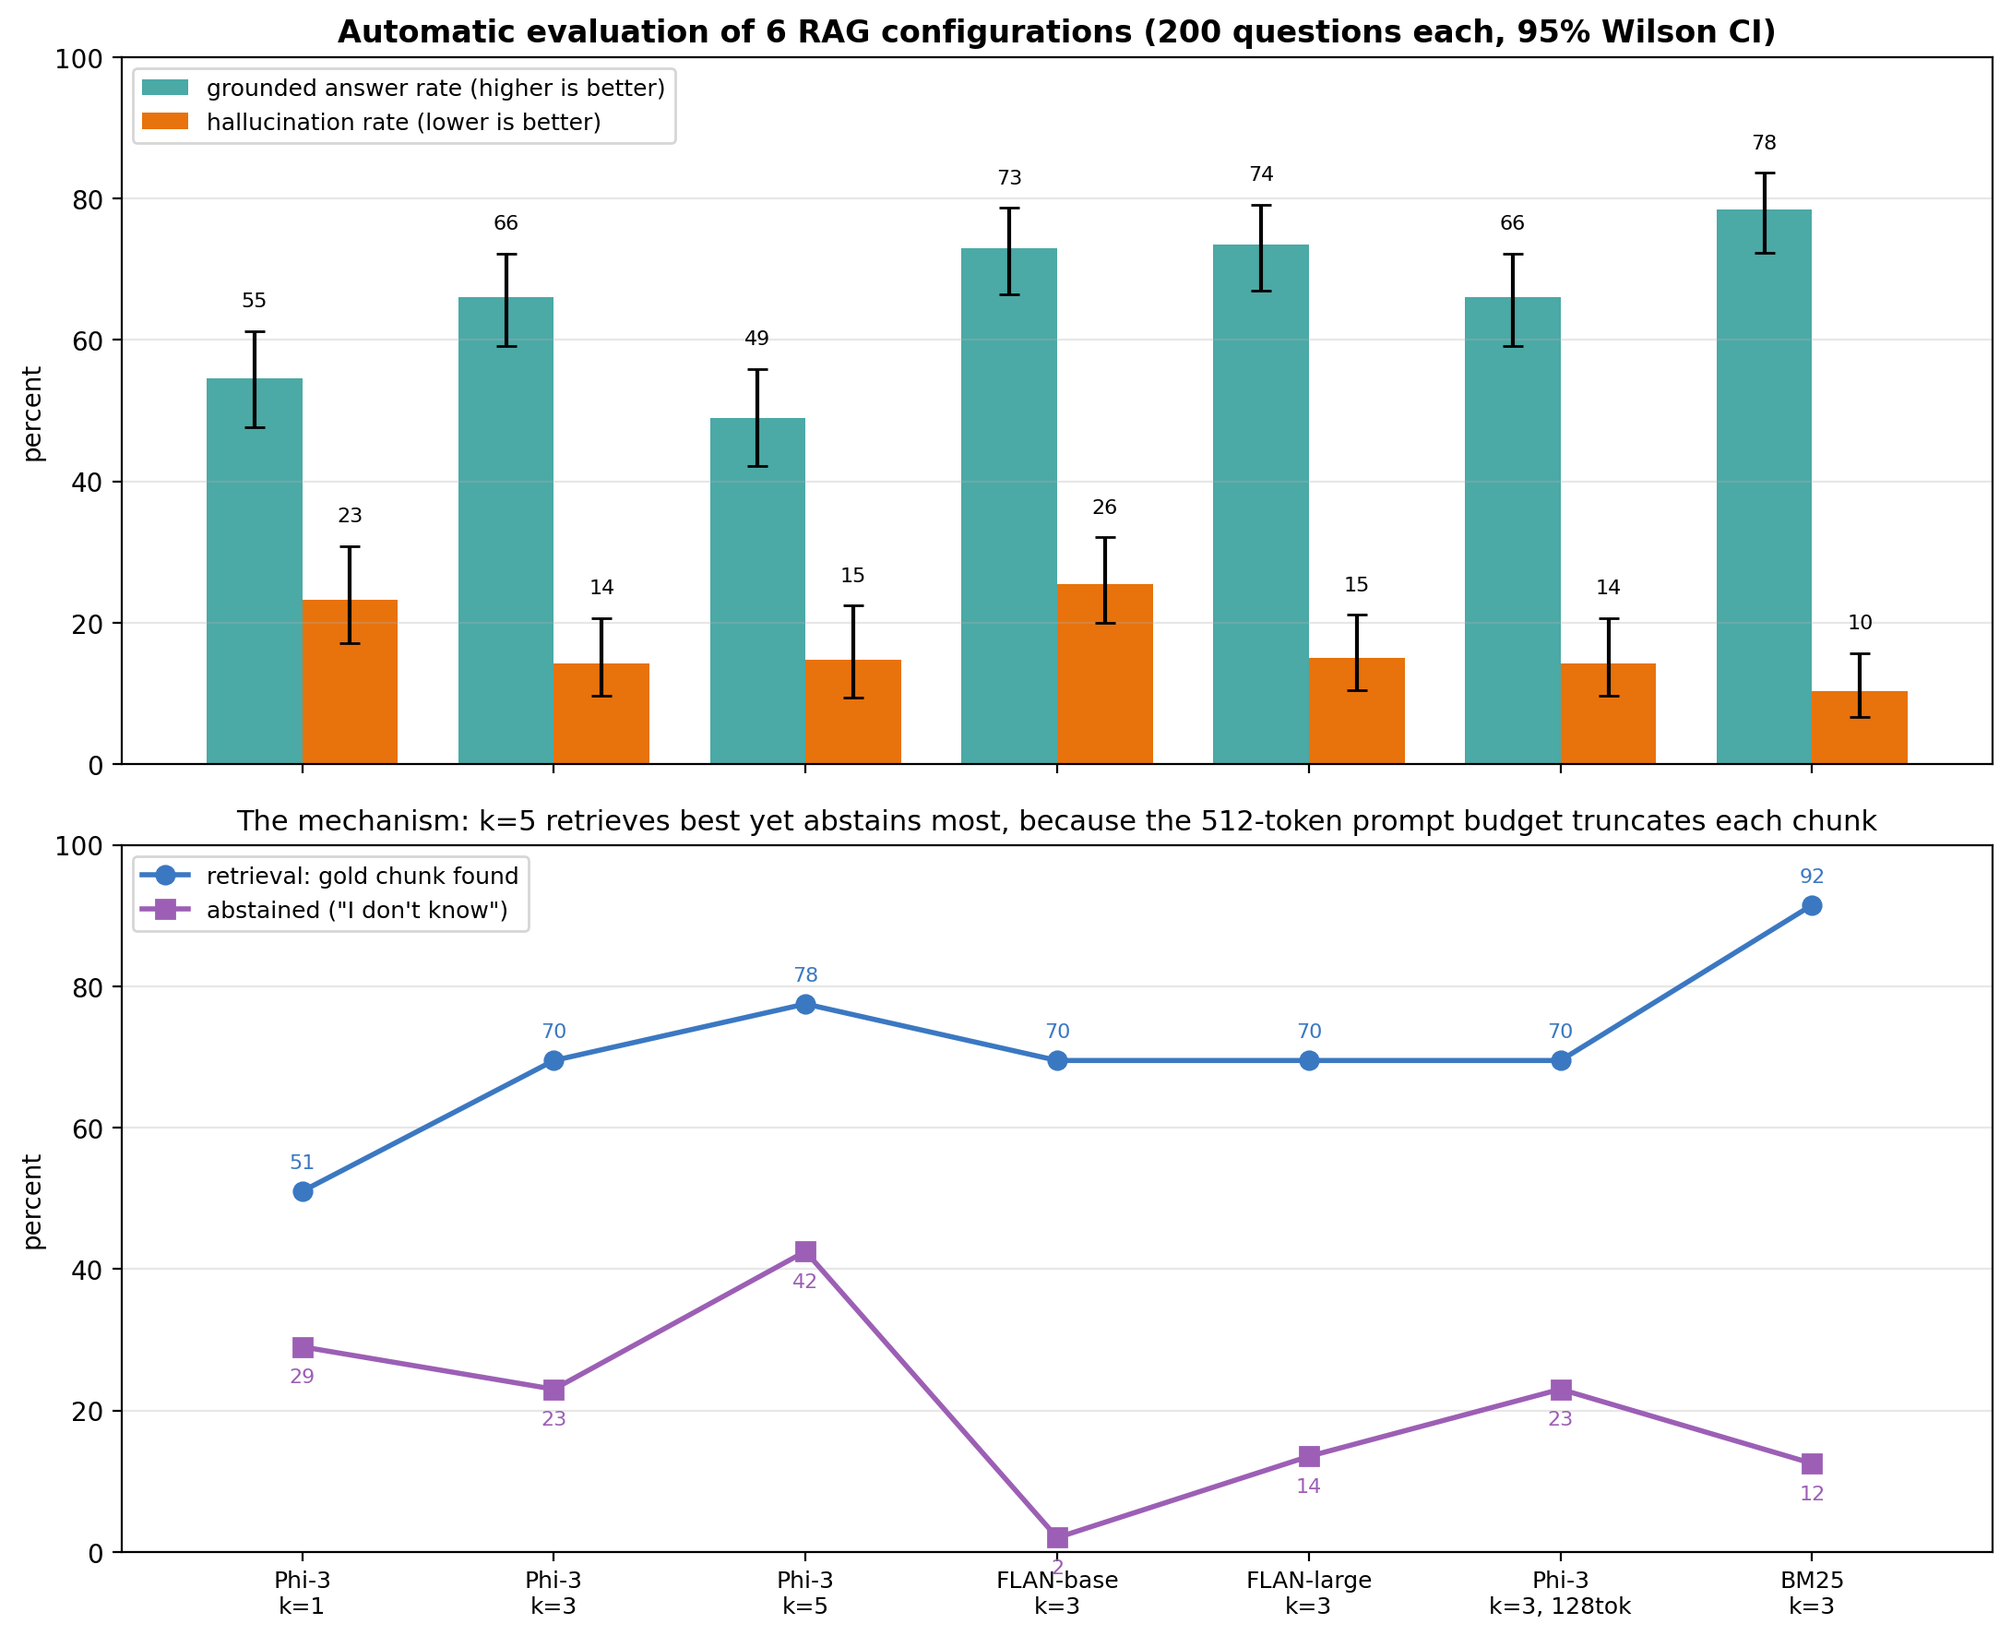
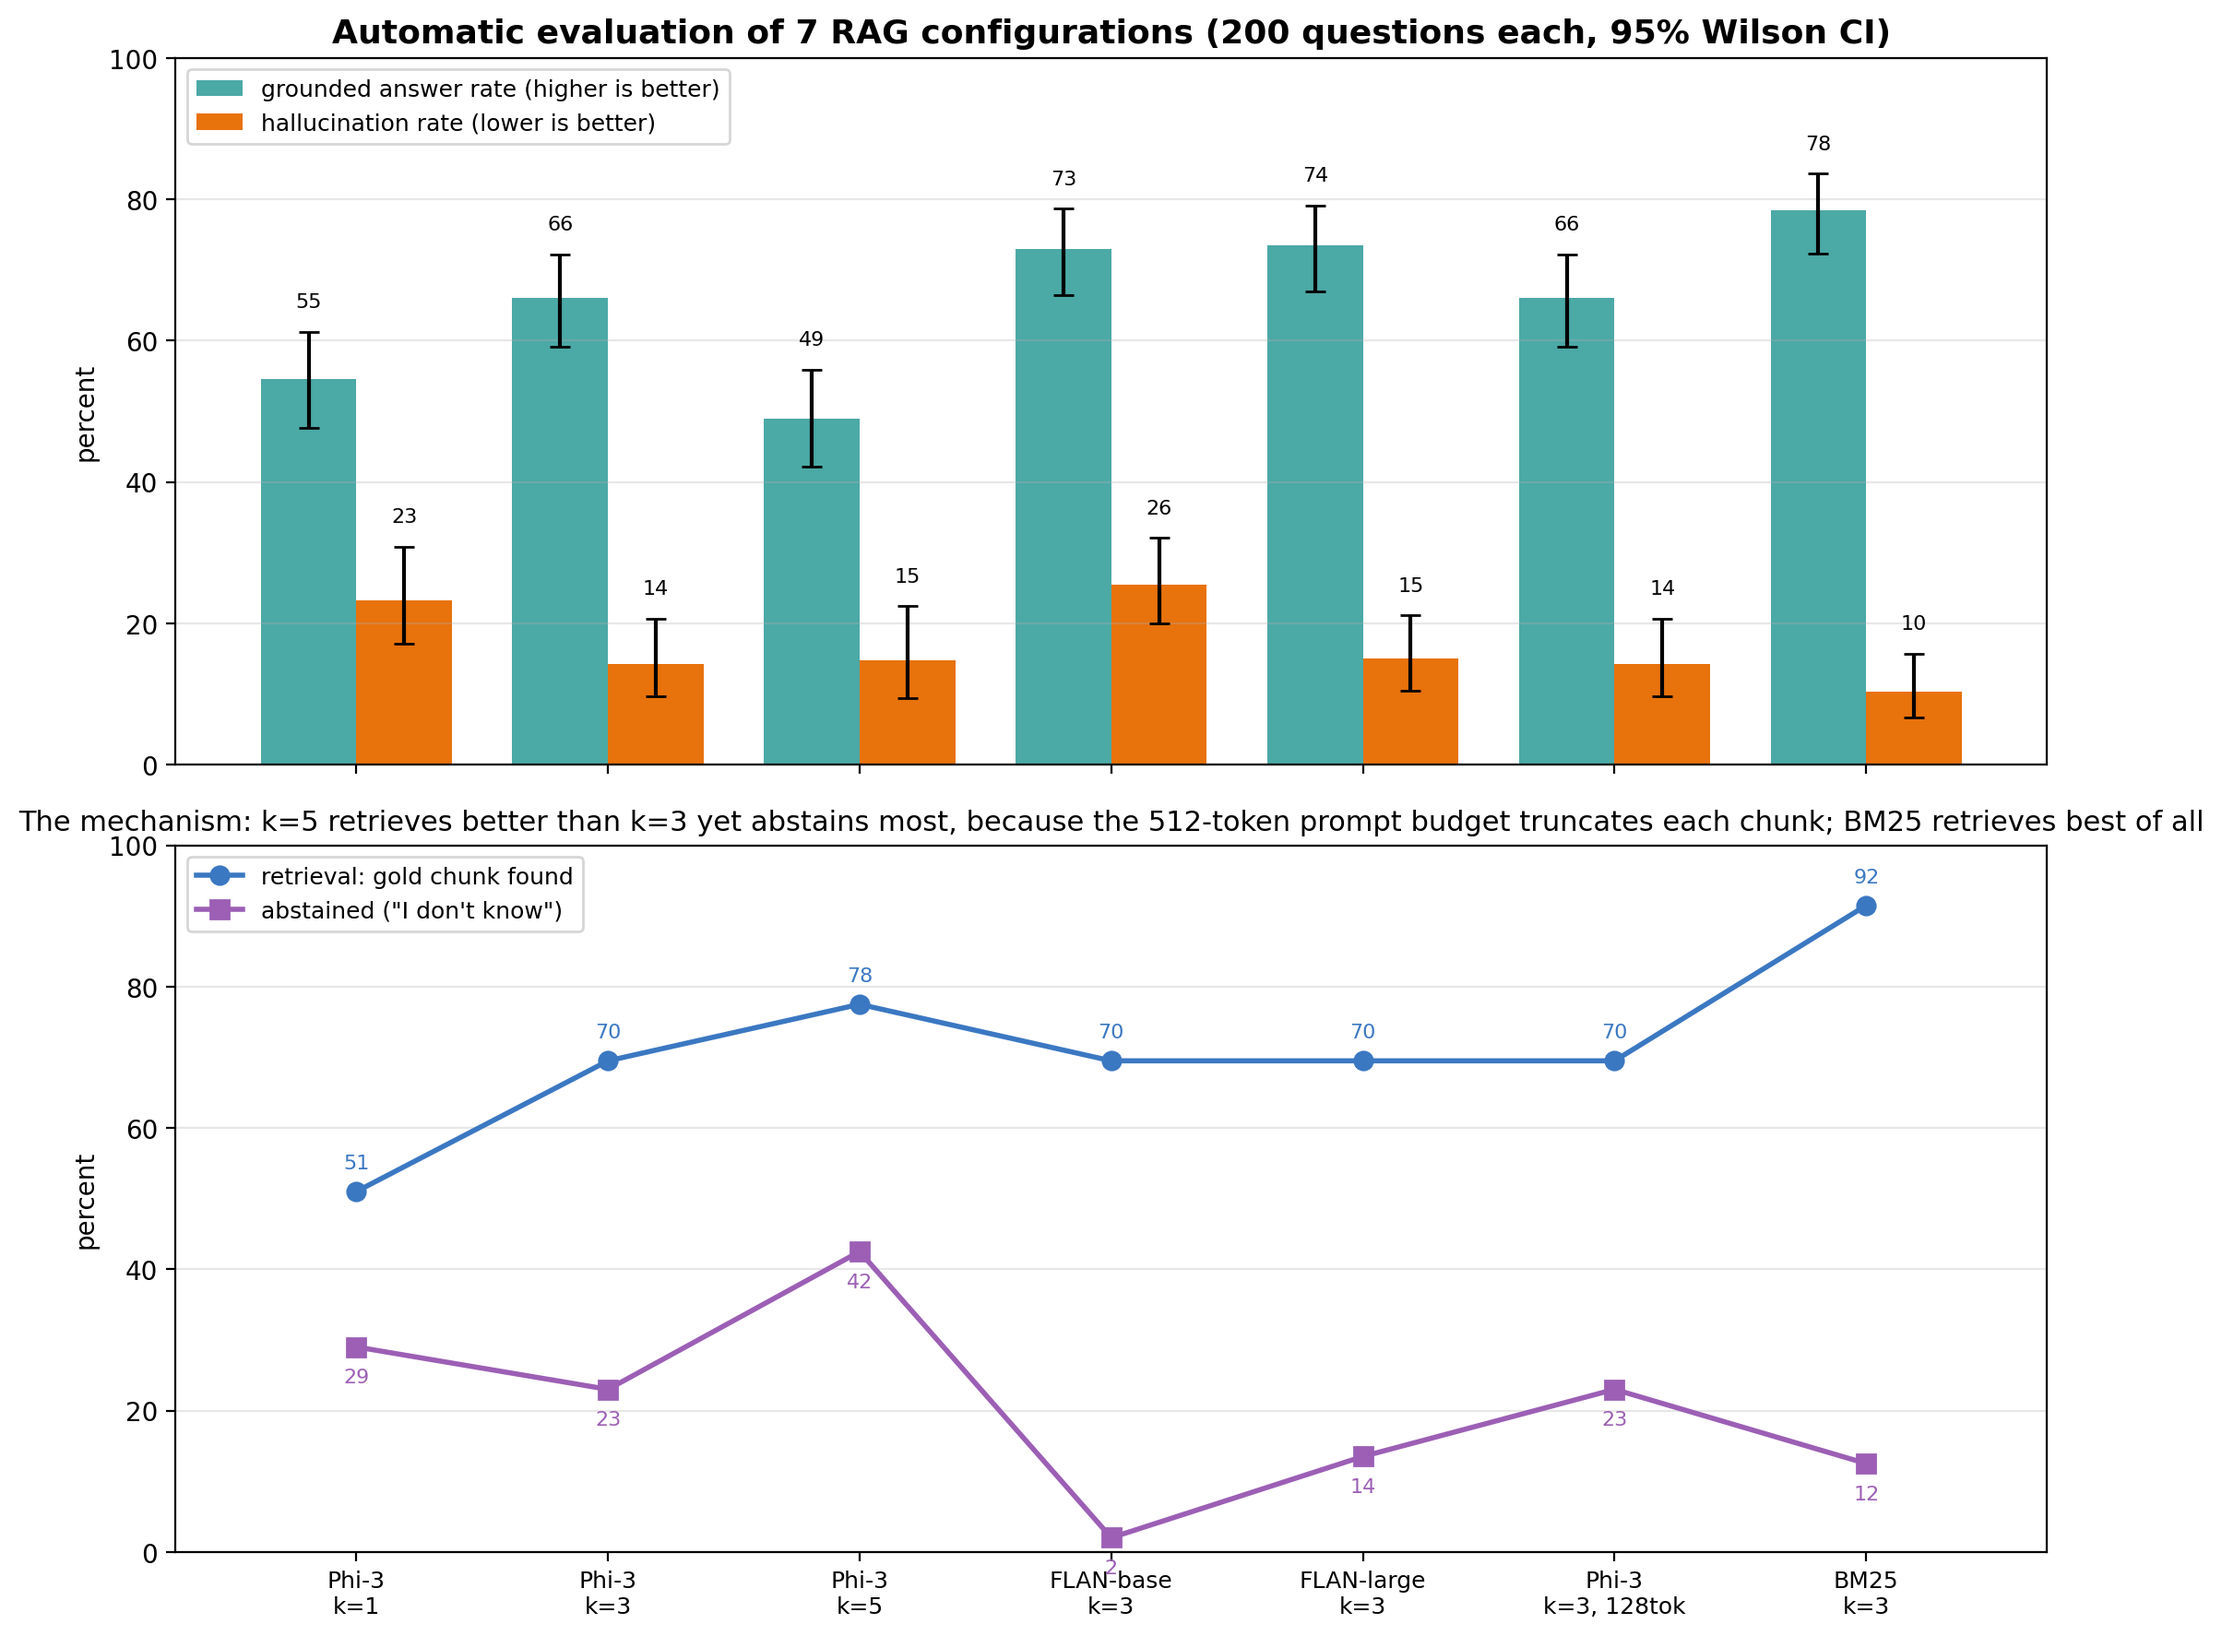
Compute all figure labels from data instead of hardcoding them

diff --git a/scale_eval/plot_grid.py b/scale_eval/plot_grid.py
@@ -65,11 +65,18 @@ def figure_calibration(summary, pooled):
              label="real retrieved evidence")
     ax1.axvline(0.3, color=GREY, ls="--", lw=1.5)
     ax1.axvline(chosen, color="red", ls=":", lw=2)
-    ax1.annotate("threshold tuned on\nHaluEval (0.30):\ncatches only 5.5%",
-                 xy=(0.3, 5.5), xytext=(0.05, 62), fontsize=9, color=GREY,
+
+    # Both figures quote what the threshold actually catches on the pool being
+    # plotted, rather than a number typed in when the grid was smaller.
+    at_old = np.mean([r["control_best_entailment"] < 0.3 for r in pooled]) * 100
+    at_new = np.mean([r["control_best_entailment"] < chosen for r in pooled]) * 100
+
+    ax1.annotate(f"threshold tuned on\nHaluEval (0.30):\n"
+                 f"catches only {at_old:.1f}%",
+                 xy=(0.3, at_old), xytext=(0.05, 62), fontsize=9, color=GREY,
                  arrowprops=dict(arrowstyle="->", color=GREY))
-    ax1.annotate(f"calibrated ({chosen:.2f}):\ncatches 90%",
-                 xy=(chosen, 90), xytext=(0.55, 55), fontsize=9, color="red",
+    ax1.annotate(f"calibrated ({chosen:.2f}):\ncatches {at_new:.0f}%",
+                 xy=(chosen, at_new), xytext=(0.55, 55), fontsize=9, color="red",
                  arrowprops=dict(arrowstyle="->", color="red"))
     ax1.set_xlabel("max-entailment threshold")
     ax1.set_ylabel("flagged as hallucinated (%)")
@@ -130,9 +137,9 @@ def figure_configs(summary):
     ax1.bar_label(b2, fmt="%.0f", padding=8, fontsize=8)
     ax1.set_ylabel("percent")
     ax1.set_ylim(0, 100)
-    ax1.set_title("Automatic evaluation of 6 RAG configurations "
-                  "(200 questions each, 95% Wilson CI)",
-                  fontsize=12, fontweight="bold")
+    ax1.set_title(f"Automatic evaluation of {len(names)} RAG configurations "
+                  f"(200 questions each, 95% Wilson CI)",
+                  fontsize=13, fontweight="bold")
     ax1.legend(fontsize=9)
     ax1.grid(axis="y", alpha=0.3)
 
@@ -147,8 +154,9 @@ def figure_configs(summary):
                      xytext=(0, -14), ha="center", fontsize=8, color=PURPLE)
     ax2.set_ylabel("percent")
     ax2.set_ylim(0, 100)
-    ax2.set_title("The mechanism: k=5 retrieves best yet abstains most, "
-                  "because the 512-token prompt budget truncates each chunk",
+    ax2.set_title("The mechanism: k=5 retrieves better than k=3 yet abstains "
+                  "most, because the 512-token prompt budget truncates each "
+                  "chunk; BM25 retrieves best of all",
                   fontsize=11)
     ax2.set_xticks(x)
     ax2.set_xticklabels([SHORT_NAME[n] for n in names], fontsize=9)

diff --git a/detection/method_comparison.py b/detection/method_comparison.py
@@ -124,7 +124,7 @@ def chart(results: dict[str, dict], common_n: int) -> None:
                   fmt="none", ecolor="black", capsize=3, linewidth=1)
 
     axis.axhline(y=0.5, color="red", linestyle=":", alpha=0.4, linewidth=1)
-    axis.text(len(names) - 0.5, 0.51, "chance", fontsize=7, color="red",
+    axis.text(len(names) - 0.65, 0.51, "chance", fontsize=7, color="red",
               ha="right")
 
     axis.set_ylabel("Score")
